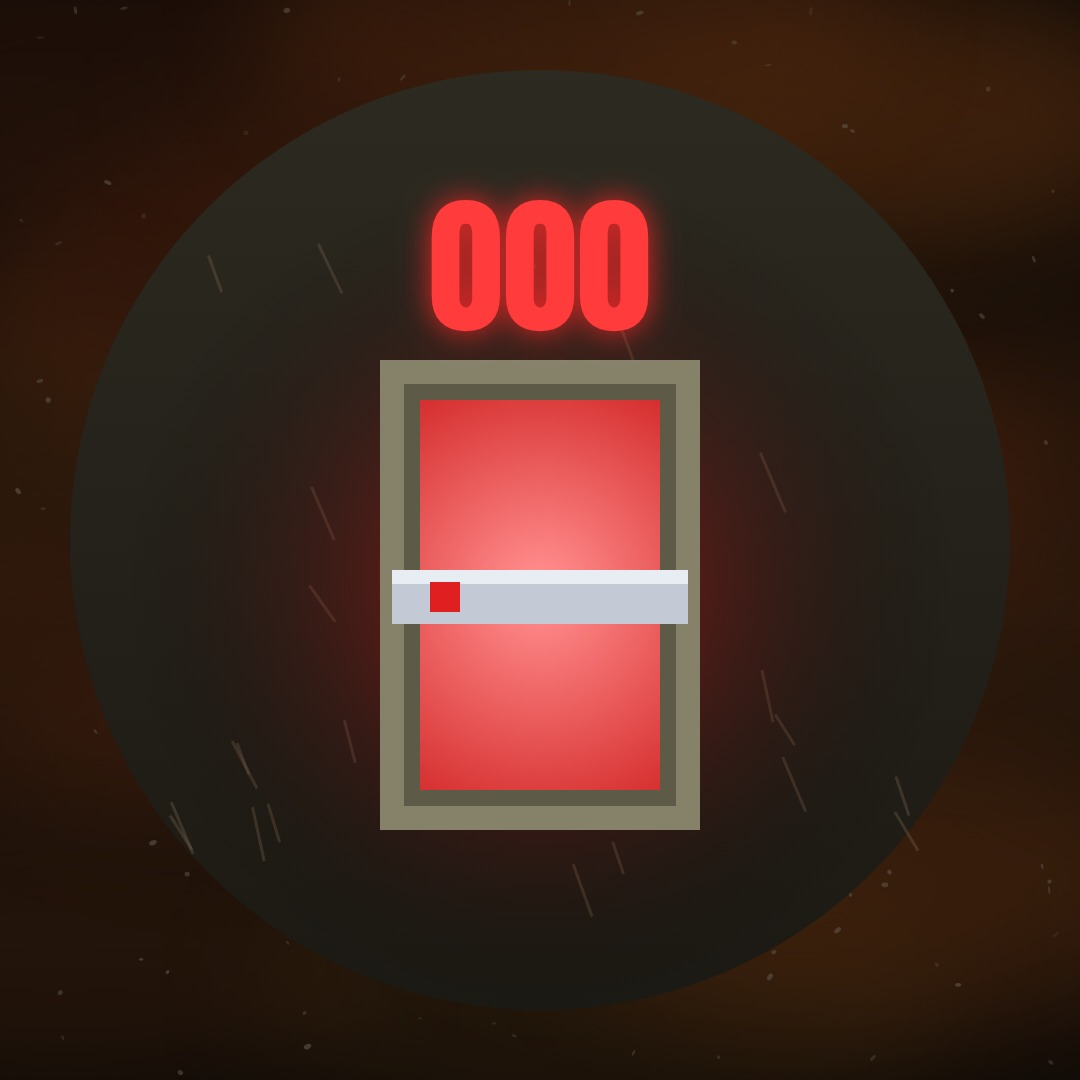
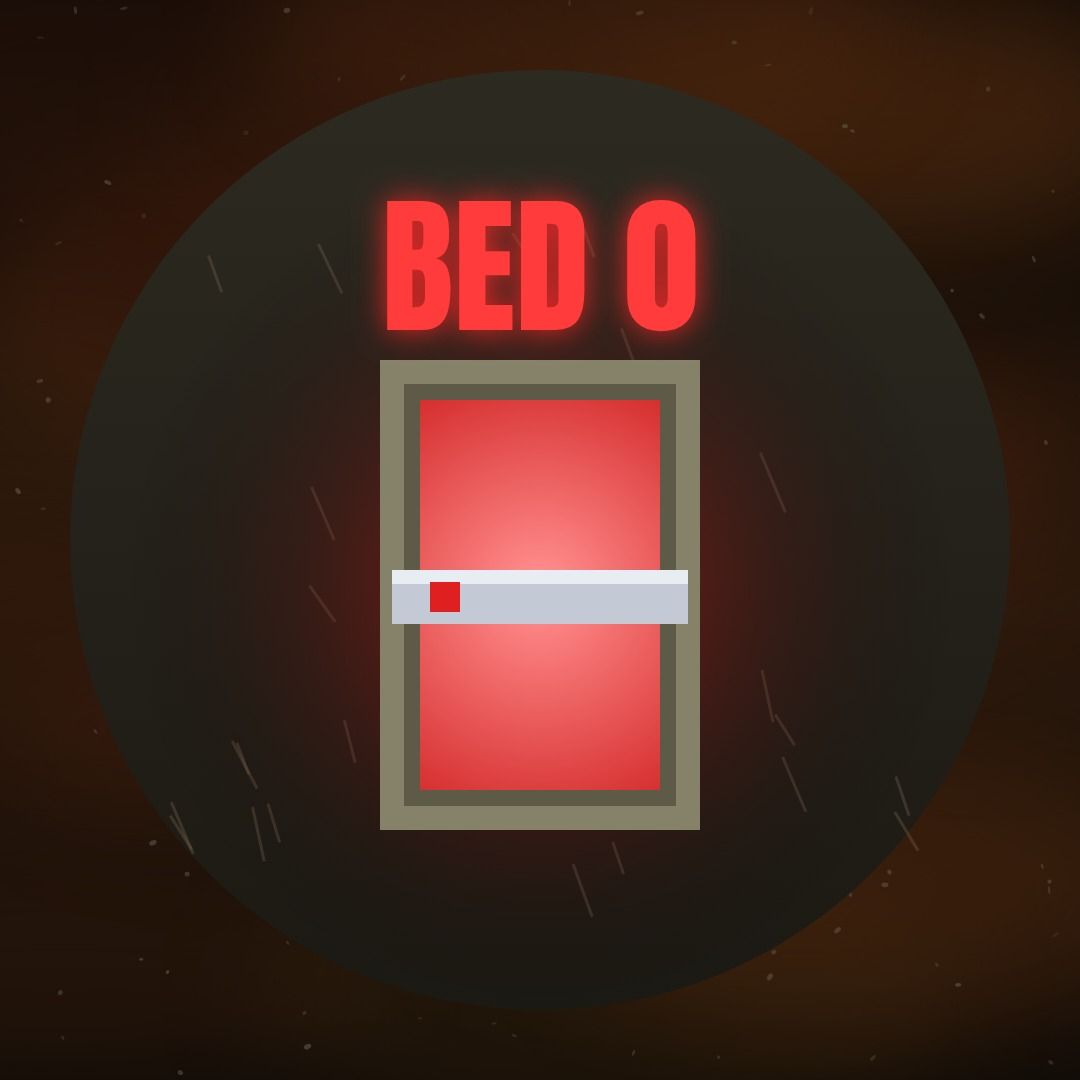
Enter the Bunker: plain bed numbers 1-100,000; the forbidden bed is Bed 0
Beds are numbered 1 to 100,000 across the bunker, with levels as number
ranges (B3 garden 20,001-30,000, B5 dormitory 40,001-70,000, B6 armory
70,001-85,000...). Your bed is 48,143; bed 100,000 sits on B7 right above
bed 0 on B8. Captions say 'Bed 0' to match the voice; door plates, tags,
lore, script, style and profile picture C updated. Film not rebuilt.

Claude-Session: https://claude.ai/code/session_01GLiioKd5D8VH26nZiSeagf

Changed region(s): [[0.3361, 0.1528, 0.6722, 0.3361]]

diff --git a/enter-the-bunker-test/index.html b/enter-the-bunker-test/index.html
@@ -35,7 +35,7 @@ const T = {
   dive0: L.l04.t, dive1: L.l04.t + 1.0, you: wt('l05', 'You'), name: wt('l06', 'name'), handle: wt('l06', 'gets'), back0: L.l06.t + L.l06.d - .15, back1: L.l06.t + L.l06.d + .9, m0: L.l06.t + L.l06.d + 1.2, m1: L.l10.t - .1,
   k1: wt('l08', '1,000'), lights: wt('l08', 'on'), k10: wt('l09', '10,000'), air: wt('l09', 'flowing'),
   k100: wt('l10', '100,000'), seal: wt('l10', 'seals'), world: wt('l10', 'wait'), cut: L.l11.t - .75, red: L.l11.t - .1,
-  b8show: wt('l12b', 'eighth') - .05, levels: wt('l12', 'seven'), six: wt('l12c', '000'), dive2a: wt('l12c', '000') + .15, dive2b: wt('l12c', '000') + 1.25,
+  b8show: wt('l12b', 'eighth') - .05, levels: wt('l12', 'seven'), six: wt('l12c', '0.'), dive2a: wt('l12c', '0.') + .15, dive2b: wt('l12c', '0.') + 1.25,
   lock: wt('l12d', 'locked'), arrive: wt('l12d', 'locked') - .1, back2a: L.l12e.t + L.l12e.d - .05, back2b: L.l12e.t + L.l12e.d + 1.0, weld: wt('l12e', 'welded'),
   card: L.l13.t - .05, pantry: wt('l13b', 'garden'), gens: wt('l13c', 'armory'), beside: wt('l13d', 'B7'),
   g0: L.l13b.t - .3, a0: L.l13c.t - .3, d0: L.l13d.t - .2,
@@ -478,8 +478,8 @@ function drawCutaway(t, cam, S) {
   labels.length = 0;
   labels.push(() => CYL ? lab(CY.cx - 70, CY.top + 2 * CY.LH + CY.ry + 46, 'GARDEN', '#9CF04A', S.pantry * ss(seg(t, T.d0, T.d0 + .3)), 'garden') : lab(VX1 + 70, VTOP + 90, 'GARDEN', P.cyan, S.pantry, 'garden'));
   labels.push(() => CYL ? lab(CY.cx - 70, CY.top + 5 * CY.LH + CY.ry + 46, 'ARMORY', P.amber, S.gens * ss(seg(t, T.d0, T.d0 + .3)), 'armory') : lab(VX1 + 30, VBOT - 75, 'ARMORY', P.gold, S.gens, 'armory'));
-  { const [x, y] = cellCenter(SIXC); labels.push(() => lab(x - 170, y + 8, 'BED 000', '#FF6A6A', S.sixTag, 'six')); }
-  if (CYL) { const [x, y] = cellCenter(ABOVE000); labels.push(() => lab(x - 175, y - 4, 'B7 · ABOVE BED 000', P.amber, S.sixTag, 'dare')); }
+  { const [x, y] = cellCenter(SIXC); labels.push(() => lab(x - 140, y + 8, 'BED 0', '#FF6A6A', S.sixTag, 'six')); }
+  if (CYL) { const [x, y] = cellCenter(ABOVE000); labels.push(() => lab(x - 175, y - 4, 'BED 100,000 · ABOVE BED 0', P.amber, S.sixTag, 'dare')); }
   { const [x, y] = cellCenter(YOURBED); labels.push(() => lab(x + 100, y - 40, 'YOUR BED', P.gold, S.yours > 0 ? Math.min(1, S.yours * 2) : 0, 'yours')); }
   if (S.doorPing > 0) { labels.push(() => { const [sx, sy] = w2s(cam, DOOR.x, DOOR.y); ctxLabels.save(); ctxLabels.globalAlpha = S.doorPing; ctxLabels.strokeStyle = P.amber; ctxLabels.lineWidth = 4; ctxLabels.beginPath(); ctxLabels.arc(sx, sy, (DOOR.r + 20 + (1 - S.doorPing) * 70) * cam.z, 0, TAU); ctxLabels.stroke(); ctxLabels.restore(); }); }
   // composite glow onto cutaway
@@ -607,7 +607,7 @@ function drawCorridor(t, red) {
     const p = proj(cam, L.p); if (p[2] < .4) continue;
     const [sx, sy] = scr(p), size = F * .17 / p[2]; if (size < 5) continue;
     c.save(); c.globalAlpha = L.fog * (L.hot ? 1 : .8); c.font = `700 ${size}px Fredoka`; c.textAlign = 'center'; c.fillStyle = L.hot ? (red ? '#FF6A6A' : '#FFD27A') : '#C8C3AA';
-    c.fillText(red && !L.hot ? '----' : red ? '0000' : String(L.num).padStart(4, '0'), sx, sy); c.restore();
+    c.fillText(red && !L.hot ? '----' : red ? '0' : (48000 + L.num).toLocaleString('en-US'), sx, sy); c.restore();
   }
   // panel labels: YOU / handle under the gold bed, 0666 under the red one
   const tagQ = quads.find(q => q.tex === (red ? 'six' : 'you'));
@@ -622,7 +622,7 @@ function drawCorridor(t, red) {
         TEXTS.push({ id: 'you', text: 'YOU', x0: sx - 60, y0: sy - 40, x1: sx + 60, y1: sy + 40, pass: t < T.you - .2 });
         if (hs > 0) { const yy = sy + size * .95; c.globalAlpha = hs; tag(c, sx, yy, '@jointhebunker', P.gold, hs, size * .45, true); c.globalAlpha = 1; TEXTS.push({ id: 'handle', text: '@jointhebunker', x0: sx - 150, y0: yy - 30, x1: sx + 150, y1: yy + 30 }); }
       } else {
-        c.font = `700 ${size}px Fredoka`; c.fillStyle = '#FF4A4A'; c.shadowColor = 'rgba(255,40,40,.9)'; c.shadowBlur = 20; c.fillText('0000', sx, sy); TEXTS.push({ id: 'six-num', text: '0000', x0: sx - 90, y0: sy - 40, x1: sx + 90, y1: sy + 40 });
+        c.font = `700 ${size}px Fredoka`; c.fillStyle = '#FF4A4A'; c.shadowColor = 'rgba(255,40,40,.9)'; c.shadowBlur = 20; c.fillText('BED 0', sx, sy); TEXTS.push({ id: 'six-num', text: 'BED 0', x0: sx - 90, y0: sy - 40, x1: sx + 90, y1: sy + 40 });
       }
       c.restore();
     }

diff --git a/enter-the-bunker-test/style/demo/index.html b/enter-the-bunker-test/style/demo/index.html
@@ -35,7 +35,7 @@ const T = {
   dive0: L.l04.t, dive1: L.l04.t + 1.0, you: wt('l05', 'You'), name: wt('l06', 'name'), handle: wt('l06', 'gets'), back0: L.l06.t + L.l06.d - .15, back1: L.l06.t + L.l06.d + .9, m0: L.l06.t + L.l06.d + 1.2, m1: L.l10.t - .1,
   k1: wt('l08', '1,000'), lights: wt('l08', 'on'), k10: wt('l09', '10,000'), air: wt('l09', 'flowing'),
   k100: wt('l10', '100,000'), seal: wt('l10', 'seals'), world: wt('l10', 'wait'), cut: L.l11.t - .75, red: L.l11.t - .1,
-  b8show: wt('l12b', 'eighth') - .05, levels: wt('l12', 'seven'), six: wt('l12c', '000'), dive2a: wt('l12c', '000') + .15, dive2b: wt('l12c', '000') + 1.25,
+  b8show: wt('l12b', 'eighth') - .05, levels: wt('l12', 'seven'), six: wt('l12c', '0.'), dive2a: wt('l12c', '0.') + .15, dive2b: wt('l12c', '0.') + 1.25,
   lock: wt('l12d', 'locked'), arrive: wt('l12d', 'locked') - .1, back2a: L.l12e.t + L.l12e.d - .05, back2b: L.l12e.t + L.l12e.d + 1.0, weld: wt('l12e', 'welded'),
   card: L.l13.t - .05, pantry: wt('l13b', 'garden'), gens: wt('l13c', 'armory'), beside: wt('l13d', 'B7'),
   g0: L.l13b.t - .3, a0: L.l13c.t - .3, d0: L.l13d.t - .2,
@@ -478,8 +478,8 @@ function drawCutaway(t, cam, S) {
   labels.length = 0;
   labels.push(() => CYL ? lab(CY.cx - 70, CY.top + 2 * CY.LH + CY.ry + 46, 'GARDEN', '#9CF04A', S.pantry * ss(seg(t, T.d0, T.d0 + .3)), 'garden') : lab(VX1 + 70, VTOP + 90, 'GARDEN', P.cyan, S.pantry, 'garden'));
   labels.push(() => CYL ? lab(CY.cx - 70, CY.top + 5 * CY.LH + CY.ry + 46, 'ARMORY', P.amber, S.gens * ss(seg(t, T.d0, T.d0 + .3)), 'armory') : lab(VX1 + 30, VBOT - 75, 'ARMORY', P.gold, S.gens, 'armory'));
-  { const [x, y] = cellCenter(SIXC); labels.push(() => lab(x - 170, y + 8, 'BED 000', '#FF6A6A', S.sixTag, 'six')); }
-  if (CYL) { const [x, y] = cellCenter(ABOVE000); labels.push(() => lab(x - 175, y - 4, 'B7 · ABOVE BED 000', P.amber, S.sixTag, 'dare')); }
+  { const [x, y] = cellCenter(SIXC); labels.push(() => lab(x - 140, y + 8, 'BED 0', '#FF6A6A', S.sixTag, 'six')); }
+  if (CYL) { const [x, y] = cellCenter(ABOVE000); labels.push(() => lab(x - 175, y - 4, 'BED 100,000 · ABOVE BED 0', P.amber, S.sixTag, 'dare')); }
   { const [x, y] = cellCenter(YOURBED); labels.push(() => lab(x + 100, y - 40, 'YOUR BED', P.gold, S.yours > 0 ? Math.min(1, S.yours * 2) : 0, 'yours')); }
   if (S.doorPing > 0) { labels.push(() => { const [sx, sy] = w2s(cam, DOOR.x, DOOR.y); ctxLabels.save(); ctxLabels.globalAlpha = S.doorPing; ctxLabels.strokeStyle = P.amber; ctxLabels.lineWidth = 4; ctxLabels.beginPath(); ctxLabels.arc(sx, sy, (DOOR.r + 20 + (1 - S.doorPing) * 70) * cam.z, 0, TAU); ctxLabels.stroke(); ctxLabels.restore(); }); }
   // composite glow onto cutaway
@@ -607,7 +607,7 @@ function drawCorridor(t, red) {
     const p = proj(cam, L.p); if (p[2] < .4) continue;
     const [sx, sy] = scr(p), size = F * .17 / p[2]; if (size < 5) continue;
     c.save(); c.globalAlpha = L.fog * (L.hot ? 1 : .8); c.font = `700 ${size}px Fredoka`; c.textAlign = 'center'; c.fillStyle = L.hot ? (red ? '#FF6A6A' : '#FFD27A') : '#C8C3AA';
-    c.fillText(red && !L.hot ? '----' : red ? '0000' : String(L.num).padStart(4, '0'), sx, sy); c.restore();
+    c.fillText(red && !L.hot ? '----' : red ? '0' : (48000 + L.num).toLocaleString('en-US'), sx, sy); c.restore();
   }
   // panel labels: YOU / handle under the gold bed, 0666 under the red one
   const tagQ = quads.find(q => q.tex === (red ? 'six' : 'you'));
@@ -622,7 +622,7 @@ function drawCorridor(t, red) {
         TEXTS.push({ id: 'you', text: 'YOU', x0: sx - 60, y0: sy - 40, x1: sx + 60, y1: sy + 40, pass: t < T.you - .2 });
         if (hs > 0) { const yy = sy + size * .95; c.globalAlpha = hs; tag(c, sx, yy, '@jointhebunker', P.gold, hs, size * .45, true); c.globalAlpha = 1; TEXTS.push({ id: 'handle', text: '@jointhebunker', x0: sx - 150, y0: yy - 30, x1: sx + 150, y1: yy + 30 }); }
       } else {
-        c.font = `700 ${size}px Fredoka`; c.fillStyle = '#FF4A4A'; c.shadowColor = 'rgba(255,40,40,.9)'; c.shadowBlur = 20; c.fillText('0000', sx, sy); TEXTS.push({ id: 'six-num', text: '0000', x0: sx - 90, y0: sy - 40, x1: sx + 90, y1: sy + 40 });
+        c.font = `700 ${size}px Fredoka`; c.fillStyle = '#FF4A4A'; c.shadowColor = 'rgba(255,40,40,.9)'; c.shadowBlur = 20; c.fillText('BED 0', sx, sy); TEXTS.push({ id: 'six-num', text: 'BED 0', x0: sx - 90, y0: sy - 40, x1: sx + 90, y1: sy + 40 });
       }
       c.restore();
     }

diff --git a/enter-the-bunker-test/profile-pic/index.html b/enter-the-bunker-test/profile-pic/index.html
@@ -76,7 +76,7 @@ function door000() {
   c.fillStyle = '#86826A'; c.fillRect(380, 360, 320, 470); c.fillStyle = '#5E5A48'; c.fillRect(404, 384, 272, 422);
   const dg = c.createRadialGradient(540, 590, 20, 540, 600, 300); dg.addColorStop(0, '#FF8A8A'); dg.addColorStop(1, '#C81010'); c.fillStyle = dg; c.fillRect(420, 400, 240, 390);
   c.fillStyle = '#C3CAD6'; c.fillRect(392, 570, 296, 54); c.fillStyle = '#E8EDF4'; c.fillRect(392, 570, 296, 14); c.fillStyle = '#E02020'; c.fillRect(430, 582, 30, 30);
-  c.font = '150px Anton'; c.textAlign = 'center'; c.fillStyle = '#FF3B3B'; c.shadowColor = 'rgba(255,40,40,.9)'; c.shadowBlur = 30; c.fillText('000', 540, 330); c.shadowBlur = 0;
+  c.font = '150px Anton'; c.textAlign = 'center'; c.fillStyle = '#FF3B3B'; c.shadowColor = 'rgba(255,40,40,.9)'; c.shadowBlur = 30; c.fillText('BED 0', 540, 330); c.shadowBlur = 0;
 }
 window.DUR = 1;
 window.render = () => { c.setTransform(S, 0, 0, S, 0, 0); c.clearRect(0, 0, 1080, 1080); ({ a: doorA, b: bunkerB, c: door000 })[V](); };

diff --git a/enter-the-bunker-test/make_timeline.py b/enter-the-bunker-test/make_timeline.py
@@ -17,13 +17,13 @@ DISP = {
  'l11': "But there's something | I haven't told you.",
  'l12': 'We thought this bunker | had seven levels.',
  'l12b': 'Then we found | an eighth.',
- 'l12c': 'There was only one bed | down there. | Bed 000.',
+ 'l12c': 'There was only one bed | down there. | Bed 0.',
  'l12d': 'Its door was locked | from the inside.',
  'l12e': 'So we welded | the hatch shut.',
  'l13': 'Pick your spot | in the comments.',
  'l13b': 'By the garden,',
  'l13c': 'next to the armory,',
- 'l13d': 'or on B7, | right above bed 000.',
+ 'l13d': 'or on B7, | right above bed 0.',
  'l14': 'Follow me, | and get inside | before the door closes.'}
 lines, caps = [], []
 for lid, t0 in START.items():

diff --git a/enter-the-bunker-test/style/demo/make_timeline.py b/enter-the-bunker-test/style/demo/make_timeline.py
@@ -17,13 +17,13 @@ DISP = {
  'l11': "But there's something | I haven't told you.",
  'l12': 'We thought this bunker | had seven levels.',
  'l12b': 'Then we found | an eighth.',
- 'l12c': 'There was only one bed | down there. | Bed 000.',
+ 'l12c': 'There was only one bed | down there. | Bed 0.',
  'l12d': 'Its door was locked | from the inside.',
  'l12e': 'So we welded | the hatch shut.',
  'l13': 'Pick your spot | in the comments.',
  'l13b': 'By the garden,',
  'l13c': 'next to the armory,',
- 'l13d': 'or on B7, | right above bed 000.',
+ 'l13d': 'or on B7, | right above bed 0.',
  'l14': 'Follow me, | and get inside | before the door closes.'}
 lines, caps = [], []
 for lid, t0 in START.items():

diff --git a/enter-the-bunker-test/LORE.md b/enter-the-bunker-test/LORE.md
@@ -5,7 +5,20 @@ This is the canon for the bunker. Future videos should stay consistent with it. 
 ## The bunker
 
 - **What it is:** a cylindrical concrete silo buried under a ruined city, built to wait out a nuclear war. It has seven levels, **B1 at the top to B7 at the bottom (on screen)**, with a stair and lift core down the centre **(on screen)**.
-- **Capacity:** 100,000 beds, about 14,300 per level. Every bed has a number. **Following** gets you a bed (the counter is the follower count); **commenting** picks where your bed is. Bed numbers restart on each level, so a bed's full name is `level-number`: your bed is `B5-0143`, the forbidden one is **bed 000** (`B8-0000`): beds are numbered from one, so it shouldn't exist either.
+- **Capacity and bed numbers (on screen):** 100,000 beds, numbered **1 to 100,000** across the whole bunker. Anyone can claim a number by commenting it. Levels are number ranges:
+
+  | Beds | Level |
+  |---|---|
+  | 1 – 10,000 | B1 · entry and decontamination |
+  | 10,001 – 20,000 | B2 · command and medical |
+  | 20,001 – 30,000 | B3 · the garden |
+  | 30,001 – 40,000 | B4 · commons and pantry |
+  | 40,001 – 70,000 | B5 · main dormitory (the biggest level) |
+  | 70,001 – 85,000 | B6 · the armory |
+  | 85,001 – 100,000 | B7 · engineering |
+  | **0** | **B8 · the floor that doesn't exist** |
+
+- **Your bed (on screen):** 48,143, on B5. **Bed 100,000**, the last bed, sits on B7 directly above the welded hatch, right on top of **bed 0** (on screen). Following gets you a bed; commenting picks your spot or number.
 - **Who runs it:** the narrator ("we"). They found the bunker, dug it out and are filling it, but they didn't build it. Who did is unknown; that's an open question to use later.
 - **Getting in:** a hatch and shaft from the surface **(on screen)**, plus a sloped tunnel that ends at the round **blast door with the radiation symbol (on screen)**. Two vent stacks with mushroom caps rise to the surface **(on screen)**.
 - **The surface:** a ruined skyline under a rust-coloured smog sky, with ash always falling **(on screen)**. When the door seals, a mushroom cloud rises on the horizon **(on screen)**.
@@ -53,26 +66,26 @@ The **blast door won't seal until every bed is full**. The counter on the wall s
 - The **generators** and the reactor that power everything, the air scrubbers that start at 10,000 survivors, and water purification.
 - It's loud and hot, and the workers who live here like the noise.
 - A maintenance hatch in the floor, welded shut by the narrator's group after their one trip to B8. It's not on any current map.
-- **The bed above the hatch (on screen):** the B7 bed directly over bed 000, as close as anyone is allowed to sleep. It's the dare option when picking your spot.
+- **The bed above the hatch (on screen):** the B7 bed directly over bed 0, as close as anyone is allowed to sleep. It's the dare option when picking your spot.
 
 ### B8 — The floor that doesn't exist (on screen)
 - Officially there are seven levels **(on screen: "This bunker only has seven levels")**. B8 lies *below the foundation*, under the hazard-striped footing **(on screen)**. It only appears when the power fails and the red emergency lights come on.
 - It's older than the rest and almost empty: a dark drum of cracked, stained concrete with scratch marks on the walls. **There is only one bed down there (on screen).**
-- **Bed 000 (on screen).** The only bed on B8, glowing red, at the dead end of a long bare corridor with no other doors **(on screen)**. Its door is latched **from the inside** **(on screen)**, and after the latch slams, three knocks come back **(on screen)**. Nobody has opened it, and bed numbers start at 1, so its number shouldn't exist.
-- **How anyone knows (on screen):** when the narrator's group first dug the bunker out, the hatch in B7's floor was **open**. They went down once, found B8 and bed 000 latched from the inside, and knocked. Something knocked back. They came up and **welded the hatch shut** ("So we welded the hatch shut."). Nobody has been down since.
+- **bed 0 (on screen).** The only bed on B8, glowing red, at the dead end of a long bare corridor with no other doors **(on screen)**. Its door is latched **from the inside** **(on screen)**, and after the latch slams, three knocks come back **(on screen)**. Nobody has opened it, and bed numbers start at 1, so its number shouldn't exist.
+- **How anyone knows (on screen):** when the narrator's group first dug the bunker out, the hatch in B7's floor was **open**. They went down once, found B8 and bed 0 latched from the inside, and knocked. Something knocked back. They came up and **welded the hatch shut** ("So we welded the hatch shut."). Nobody has been down since.
 - That's the narrator's guilty secret: they're filling the bunker with 100,000 people, knowing it isn't empty.
 - The original blueprints in the B2 archives show eight levels.
 
 ## Story threads to use later
-- **Who is in bed 000**, and why the knocks come in threes.
+- **Who is in bed 0**, and why the knocks come in threes.
 - **How B8 got there**: built first and hidden, or dug by whoever is inside it?
 - **Who built the bunker**, and why for exactly 100,000 people.
 - **What else is on B8.**
-- **The counter:** does anything happen at numbers other than the milestones? (For example, comments going quiet at 000.)
-- **Picking your spot:** each new video can offer two attractive rooms and one forbidden one, as this film does with the garden, the armory and 000.
+- **The counter:** does anything happen at numbers other than the milestones? (For example, comments going quiet near bed 0.)
+- **Picking your spot:** each new video can offer two attractive rooms and one forbidden one, as this film does with the garden, the armory and bed 0 (from the B7 bed right above it).
 
 ## Visual key (for consistency)
 - Concrete: `#A9A48C` / `#6C6855`. Bunk shells: `#2E3625`. Bed light strip: toxic green `#9CF04A`.
 - Hazard yellow `#F2C230`: the dashed lines, counter numbers, stripes, the trefoil and level labels.
-- Gold `#FFC23A` means **you**. Red `#FF3B3B` means **000 / the forbidden**. Green glow means the garden or the scanner.
+- Gold `#FFC23A` means **you**. Red `#FF3B3B` means **bed 0 / the forbidden**. Green glow means the garden or the scanner.
 - Sky: rust smog `#140E0A` → `#5A3417`, with falling ash.

diff --git a/enter-the-bunker-test/style/demo/LORE.md b/enter-the-bunker-test/style/demo/LORE.md
@@ -5,7 +5,20 @@ This is the canon for the bunker. Future videos should stay consistent with it. 
 ## The bunker
 
 - **What it is:** a cylindrical concrete silo buried under a ruined city, built to wait out a nuclear war. It has seven levels, **B1 at the top to B7 at the bottom (on screen)**, with a stair and lift core down the centre **(on screen)**.
-- **Capacity:** 100,000 beds, about 14,300 per level. Every bed has a number. **Following** gets you a bed (the counter is the follower count); **commenting** picks where your bed is. Bed numbers restart on each level, so a bed's full name is `level-number`: your bed is `B5-0143`, the forbidden one is **bed 000** (`B8-0000`): beds are numbered from one, so it shouldn't exist either.
+- **Capacity and bed numbers (on screen):** 100,000 beds, numbered **1 to 100,000** across the whole bunker. Anyone can claim a number by commenting it. Levels are number ranges:
+
+  | Beds | Level |
+  |---|---|
+  | 1 – 10,000 | B1 · entry and decontamination |
+  | 10,001 – 20,000 | B2 · command and medical |
+  | 20,001 – 30,000 | B3 · the garden |
+  | 30,001 – 40,000 | B4 · commons and pantry |
+  | 40,001 – 70,000 | B5 · main dormitory (the biggest level) |
+  | 70,001 – 85,000 | B6 · the armory |
+  | 85,001 – 100,000 | B7 · engineering |
+  | **0** | **B8 · the floor that doesn't exist** |
+
+- **Your bed (on screen):** 48,143, on B5. **Bed 100,000**, the last bed, sits on B7 directly above the welded hatch, right on top of **bed 0** (on screen). Following gets you a bed; commenting picks your spot or number.
 - **Who runs it:** the narrator ("we"). They found the bunker, dug it out and are filling it, but they didn't build it. Who did is unknown; that's an open question to use later.
 - **Getting in:** a hatch and shaft from the surface **(on screen)**, plus a sloped tunnel that ends at the round **blast door with the radiation symbol (on screen)**. Two vent stacks with mushroom caps rise to the surface **(on screen)**.
 - **The surface:** a ruined skyline under a rust-coloured smog sky, with ash always falling **(on screen)**. When the door seals, a mushroom cloud rises on the horizon **(on screen)**.
@@ -53,26 +66,26 @@ The **blast door won't seal until every bed is full**. The counter on the wall s
 - The **generators** and the reactor that power everything, the air scrubbers that start at 10,000 survivors, and water purification.
 - It's loud and hot, and the workers who live here like the noise.
 - A maintenance hatch in the floor, welded shut by the narrator's group after their one trip to B8. It's not on any current map.
-- **The bed above the hatch (on screen):** the B7 bed directly over bed 000, as close as anyone is allowed to sleep. It's the dare option when picking your spot.
+- **The bed above the hatch (on screen):** the B7 bed directly over bed 0, as close as anyone is allowed to sleep. It's the dare option when picking your spot.
 
 ### B8 — The floor that doesn't exist (on screen)
 - Officially there are seven levels **(on screen: "This bunker only has seven levels")**. B8 lies *below the foundation*, under the hazard-striped footing **(on screen)**. It only appears when the power fails and the red emergency lights come on.
 - It's older than the rest and almost empty: a dark drum of cracked, stained concrete with scratch marks on the walls. **There is only one bed down there (on screen).**
-- **Bed 000 (on screen).** The only bed on B8, glowing red, at the dead end of a long bare corridor with no other doors **(on screen)**. Its door is latched **from the inside** **(on screen)**, and after the latch slams, three knocks come back **(on screen)**. Nobody has opened it, and bed numbers start at 1, so its number shouldn't exist.
-- **How anyone knows (on screen):** when the narrator's group first dug the bunker out, the hatch in B7's floor was **open**. They went down once, found B8 and bed 000 latched from the inside, and knocked. Something knocked back. They came up and **welded the hatch shut** ("So we welded the hatch shut."). Nobody has been down since.
+- **bed 0 (on screen).** The only bed on B8, glowing red, at the dead end of a long bare corridor with no other doors **(on screen)**. Its door is latched **from the inside** **(on screen)**, and after the latch slams, three knocks come back **(on screen)**. Nobody has opened it, and bed numbers start at 1, so its number shouldn't exist.
+- **How anyone knows (on screen):** when the narrator's group first dug the bunker out, the hatch in B7's floor was **open**. They went down once, found B8 and bed 0 latched from the inside, and knocked. Something knocked back. They came up and **welded the hatch shut** ("So we welded the hatch shut."). Nobody has been down since.
 - That's the narrator's guilty secret: they're filling the bunker with 100,000 people, knowing it isn't empty.
 - The original blueprints in the B2 archives show eight levels.
 
 ## Story threads to use later
-- **Who is in bed 000**, and why the knocks come in threes.
+- **Who is in bed 0**, and why the knocks come in threes.
 - **How B8 got there**: built first and hidden, or dug by whoever is inside it?
 - **Who built the bunker**, and why for exactly 100,000 people.
 - **What else is on B8.**
-- **The counter:** does anything happen at numbers other than the milestones? (For example, comments going quiet at 000.)
-- **Picking your spot:** each new video can offer two attractive rooms and one forbidden one, as this film does with the garden, the armory and 000.
+- **The counter:** does anything happen at numbers other than the milestones? (For example, comments going quiet near bed 0.)
+- **Picking your spot:** each new video can offer two attractive rooms and one forbidden one, as this film does with the garden, the armory and bed 0 (from the B7 bed right above it).
 
 ## Visual key (for consistency)
 - Concrete: `#A9A48C` / `#6C6855`. Bunk shells: `#2E3625`. Bed light strip: toxic green `#9CF04A`.
 - Hazard yellow `#F2C230`: the dashed lines, counter numbers, stripes, the trefoil and level labels.
-- Gold `#FFC23A` means **you**. Red `#FF3B3B` means **000 / the forbidden**. Green glow means the garden or the scanner.
+- Gold `#FFC23A` means **you**. Red `#FF3B3B` means **bed 0 / the forbidden**. Green glow means the garden or the scanner.
 - Sky: rust smog `#140E0A` → `#5A3417`, with falling ash.

diff --git a/enter-the-bunker-test/style/STYLE.md b/enter-the-bunker-test/style/STYLE.md
@@ -11,7 +11,7 @@ Default size: 1080×1920, 30 fps.
 - **One bunker, cut open.** A buried cylindrical concrete silo seen in a front cutaway: stacked levels (B1–B7), each a concrete floor ringed with rows of bunks on the curved back wall, a stair/lift core down the middle, vent stacks and a hatch shaft rising to a ruined surface, a round blast door with a radiation trefoil at the end of a tunnel.
 - **The viewer is a bed.** Every film offers one bed to "you": gold, with a faceless silhouette and the word YOU, then a handle tag (`@YOUR_NAME`).
 - **A counter is the promise.** A dark plate with a small-caps tag and a big hazard-yellow number (`0 / 100,000`); milestones roll it up and change the bunker (lights, air, the door seals).
-- **One floor shouldn't exist.** The twist is always a hidden level revealed under red emergency light, with one red bed on it that is already taken (bed 000 on B8). Reached by the same corridor, turned red.
+- **One floor shouldn't exist.** The twist is always a hidden level revealed under red emergency light, with one red bed on it that is already taken (bed 0 on B8). Reached by the same corridor, turned red.
 - **Into the bunk.** The camera dives from the cutaway into one bed and comes out in a 3D corridor of beds, and pulls back the same way.
 
 Not a sci-fi ship (no rocket fins, engines, starfields or glowing hull outlines), not Sci-fi Hologram HUD (solid concrete, not wireframe), not a 3D product render (the cutaway is drawn flat; only the corridor has depth).
@@ -32,7 +32,7 @@ Not a sci-fi ship (no rocket fins, engines, starfields or glowing hull outlines)
 - **Concrete** (#A9A48C / shade #6C6855) with stains and formwork lines; interiors near-black olive (#1C2016), bunks #2E3625 with a toxic-green light strip (#9CF04A).
 - **Hazard yellow** (#F2C230) is the bunker's own mark: dashed edges, stripes on the footing, the trefoil, level labels, every number.
 - **Only lights glow:** lit bunks (warm #FFD27A), beacons, the scanner and the garden (toxic green). The structure itself never glows.
-- **Gold** (#FFC23A) means *you*. **Red** (#FF3B3B) means *the forbidden*: bed 000, B8, the red corridor. Never both in one bed.
+- **Gold** (#FFC23A) means *you*. **Red** (#FF3B3B) means *the forbidden*: bed 0, B8, the red corridor. Never both in one bed.
 
 ## 4. Type & subtitles
 
@@ -66,7 +66,7 @@ Not a sci-fi ship (no rocket fins, engines, starfields or glowing hull outlines)
 - **Into the bunk.** Dive into one bed; the corridor grows from it. *Fits:* showing who lives inside; finding one seat in a stadium.
 - **The counter climbs.** The plate rolls through milestones while the structure changes with each one. *Fits:* launches, doors, unlocks, goals.
 - **The floor that doesn't exist.** The power cuts, red light comes on, the camera tilts below the lowest level and a hidden floor flickers in; the floor is empty except for one red bed, and a bare corridor dead-ends at its single latched door, which knocks back. *Fits:* any twist where one place is already taken.
-- **Pick your spot.** Rooms light up with tags as a comment card names them (two attractive ones, then the forbidden one: e.g. the garden, the armory, or the B7 bed right above bed 000: the closest anyone is allowed). *Fits:* the call to comment.
+- **Pick your spot.** Rooms light up with tags as a comment card names them (two attractive ones, then the forbidden one: e.g. the garden, the armory, or the B7 bed right above bed 0: the closest anyone is allowed). *Fits:* the call to comment.
 
 ## 9. Pitfalls
 

diff --git a/enter-the-bunker-test/style/DEMO.md b/enter-the-bunker-test/style/DEMO.md
@@ -2,7 +2,7 @@
 
 One example among many. Don't reuse its story, arc, shots, props or timings.
 
-**Story.** A cylindrical silo bunker under a nuclear wasteland has 100,000 empty beds; the blast door seals when it's full. The viewer's bed glows gold in a corridor on B5; the counter promises lights (1,000), air (10,000) and the seal (100,000, with a mushroom cloud on the horizon). Power cut, red light: "This bunker only has seven levels." A hidden eighth level flickers in below the foundation; bed 000 glows red; a bare corridor with no other doors dead-ends at its door, latched from the inside, which knocks back; "So we welded the hatch shut." Pick your spot (the garden, the armory, or on B7, right above bed 000); the camera pushes back into the bunks, ending on its first frame (loop). Canon in `demo/LORE.md`, narration in `demo/SCRIPT.md`.
+**Story.** A cylindrical silo bunker under a nuclear wasteland has 100,000 empty beds; the blast door seals when it's full. The viewer's bed glows gold in a corridor on B5; the counter promises lights (1,000), air (10,000) and the seal (100,000, with a mushroom cloud on the horizon). Power cut, red light: "This bunker only has seven levels." A hidden eighth level flickers in below the foundation; bed 0 glows red; a bare corridor with no other doors dead-ends at its door, latched from the inside, which knocks back; "So we welded the hatch shut." Pick your spot (the garden, the armory, or on B7, right above bed 0); the camera pushes back into the bunks, ending on its first frame (loop). Canon in `demo/LORE.md`, narration in `demo/SCRIPT.md`.
 
 **Shots.** ECU grid → pull back · wide with light sweep · push to the door, counter springs in · dive into a cell → corridor → gold bed (YOU → @YOUR_NAME) · pull back · counter climbs (lights, air) · door rolls shut, pull out to the burning horizon · power cut · red dive → bed 0666, latch · pull back, comment card, zones (PANTRY, GENERATORS, 666), YOUR BED · push into the grid.
 
